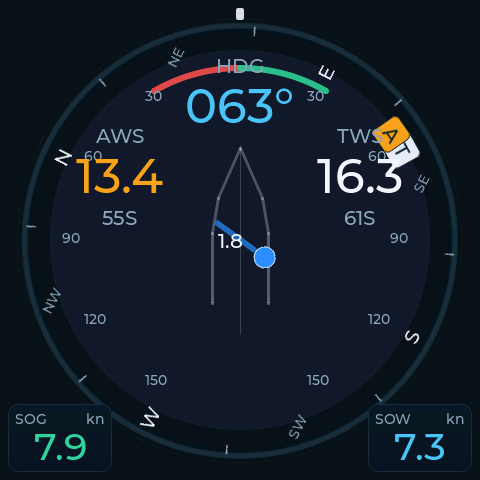
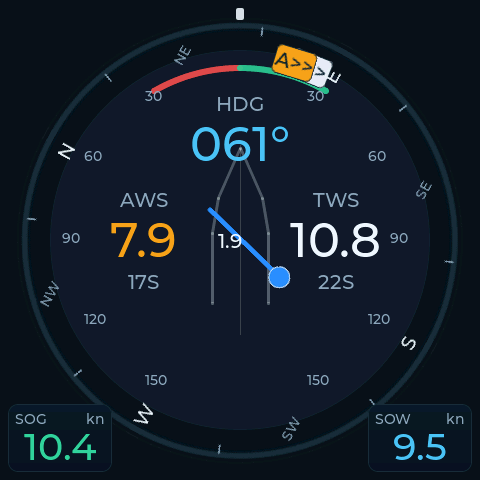
feat(ui): centered current vector + zero-ring, HDG clear of arc, A>>/T>> wind markers
Wind screen polish:
- Current/tide is now a centered vector (shaft symmetric about the dial centre,
  head points to set) instead of an offset arrow; a hollow ring is shown at the
  centre when the current is calm (~0 drift), the arrow when it flows.
- HDG readout moved down so it no longer overlaps the close-hauled arc.
- A/T wind markers carry a >> chevron (A>> apparent / T>> true) to read as
  inward direction indices; badge widened to fit.

Verified on device (docs/images/screen-wind.png).

diff --git a/src/ui/screen_wind.cpp b/src/ui/screen_wind.cpp
@@ -34,6 +34,7 @@ static lv_obj_t *bezel = nullptr;
 static lv_obj_t *awa_marker = nullptr;
 static lv_obj_t *twa_marker = nullptr;
 static lv_obj_t *tide_arrow = nullptr;
+static lv_obj_t *tide_zero = nullptr;  // circle shown when current ~ 0
 static lv_obj_t *waypoint_marker = nullptr;
 
 // Hero readouts
@@ -275,7 +276,7 @@ static void build_boat(lv_obj_t *parent) {
 
 static lv_obj_t *make_wind_marker(lv_obj_t *parent, const char *letter, uint32_t bg, uint32_t fg) {
     lv_obj_t *m = lv_obj_create(parent);
-    lv_obj_set_size(m, 28, 32);
+    lv_obj_set_size(m, 42, 30);
     lv_obj_set_style_bg_color(m, lv_color_hex(bg), 0);
     lv_obj_set_style_bg_opa(m, LV_OPA_COVER, 0);
     lv_obj_set_style_border_color(m, lv_color_hex(theme.panel_edge), 0);
@@ -284,7 +285,7 @@ static lv_obj_t *make_wind_marker(lv_obj_t *parent, const char *letter, uint32_t
     lv_obj_set_style_pad_all(m, 0, 0);
     lv_obj_clear_flag(m, LV_OBJ_FLAG_SCROLLABLE);
     lv_obj_clear_flag(m, LV_OBJ_FLAG_CLICKABLE);
-    apply_pivot_center(m, 14, R_MARKER);
+    apply_pivot_center(m, 21, R_MARKER);
 
     lv_obj_t *l = lv_label_create(m);
     lv_label_set_text(l, letter);
@@ -294,35 +295,40 @@ static lv_obj_t *make_wind_marker(lv_obj_t *parent, const char *letter, uint32_t
     return m;
 }
 
-// ---- tide arrow --------------------------------------------------------
-// A small triangle (head) + rectangle (tail) at dial center, rotating
-// around the center. Distinct cool-blue color, hidden when no current.
+// ---- tide / current vector ---------------------------------------------
+// A centered current vector: the SHAFT is symmetric about the dial centre
+// (its middle sits exactly on CX,CY) and the HEAD points in the current's set
+// direction; the whole thing rotates around the centre. When the current is
+// ~0 (calm), the arrow hides and a small ring is shown at the centre instead.
+static constexpr int TIDE_H = 132;           // box height
+static constexpr int TIDE_MID = TIDE_H / 2;  // pivot row == dial centre
 static void build_tide(lv_obj_t *parent) {
     tide_arrow = lv_obj_create(parent);
-    lv_obj_set_size(tide_arrow, 22, 80);
+    lv_obj_set_size(tide_arrow, 24, TIDE_H);
     lv_obj_set_style_bg_opa(tide_arrow, LV_OPA_TRANSP, 0);
     lv_obj_set_style_border_width(tide_arrow, 0, 0);
     lv_obj_set_style_pad_all(tide_arrow, 0, 0);
     lv_obj_clear_flag(tide_arrow, LV_OBJ_FLAG_SCROLLABLE);
     lv_obj_clear_flag(tide_arrow, LV_OBJ_FLAG_CLICKABLE);
-    apply_pivot_center(tide_arrow, 11, 40);
+    apply_pivot_center(tide_arrow, 12, TIDE_MID);
 
-    // Tail
-    lv_obj_t *tail = lv_obj_create(tide_arrow);
-    lv_obj_set_size(tail, 6, 50);
-    lv_obj_set_pos(tail, 8, 22);
-    lv_obj_set_style_bg_color(tail, lv_color_hex(0x288cff), 0);
-    lv_obj_set_style_bg_opa(tail, LV_OPA_70, 0);
-    lv_obj_set_style_border_width(tail, 0, 0);
-    lv_obj_set_style_radius(tail, 2, 0);
-    lv_obj_set_style_pad_all(tail, 0, 0);
-    lv_obj_clear_flag(tail, LV_OBJ_FLAG_SCROLLABLE);
-    lv_obj_clear_flag(tail, LV_OBJ_FLAG_CLICKABLE);
+    // Shaft: symmetric about the box centre (TIDE_MID), so its middle is at
+    // the dial centre. Extends ~46 px each way.
+    lv_obj_t *shaft = lv_obj_create(tide_arrow);
+    lv_obj_set_size(shaft, 5, 92);
+    lv_obj_set_pos(shaft, 9, TIDE_MID - 46);
+    lv_obj_set_style_bg_color(shaft, lv_color_hex(0x288cff), 0);
+    lv_obj_set_style_bg_opa(shaft, LV_OPA_COVER, 0);
+    lv_obj_set_style_border_width(shaft, 0, 0);
+    lv_obj_set_style_radius(shaft, 2, 0);
+    lv_obj_set_style_pad_all(shaft, 0, 0);
+    lv_obj_clear_flag(shaft, LV_OBJ_FLAG_SCROLLABLE);
+    lv_obj_clear_flag(shaft, LV_OBJ_FLAG_CLICKABLE);
 
-    // Head (filled diamond, approximated with a wider rounded rect)
+    // Head (diamond) at the set-direction (top) end.
     lv_obj_t *head = lv_obj_create(tide_arrow);
     lv_obj_set_size(head, 22, 22);
-    lv_obj_set_pos(head, 0, 0);
+    lv_obj_set_pos(head, 1, 2);
     lv_obj_set_style_bg_color(head, lv_color_hex(0x288cff), 0);
     lv_obj_set_style_bg_opa(head, LV_OPA_COVER, 0);
     lv_obj_set_style_border_color(head, lv_color_hex(theme.fg), 0);
@@ -331,8 +337,20 @@ static void build_tide(lv_obj_t *parent) {
     lv_obj_set_style_pad_all(head, 0, 0);
     lv_obj_clear_flag(head, LV_OBJ_FLAG_SCROLLABLE);
     lv_obj_clear_flag(head, LV_OBJ_FLAG_CLICKABLE);
-
     lv_obj_add_flag(tide_arrow, LV_OBJ_FLAG_HIDDEN);
+
+    // Zero-current ring (shown when drift ~ 0): a hollow circle at the centre.
+    tide_zero = lv_obj_create(parent);
+    lv_obj_set_size(tide_zero, 26, 26);
+    apply_pivot_center(tide_zero, 13, 13);  // centred on the dial
+    lv_obj_set_style_bg_opa(tide_zero, LV_OPA_TRANSP, 0);
+    lv_obj_set_style_border_color(tide_zero, lv_color_hex(0x288cff), 0);
+    lv_obj_set_style_border_width(tide_zero, 3, 0);
+    lv_obj_set_style_radius(tide_zero, LV_RADIUS_CIRCLE, 0);
+    lv_obj_set_style_pad_all(tide_zero, 0, 0);
+    lv_obj_clear_flag(tide_zero, LV_OBJ_FLAG_SCROLLABLE);
+    lv_obj_clear_flag(tide_zero, LV_OBJ_FLAG_CLICKABLE);
+    lv_obj_add_flag(tide_zero, LV_OBJ_FLAG_HIDDEN);
 }
 
 // ---- waypoint pip (small yellow marker at rim) -------------------------
@@ -470,8 +488,10 @@ lv_obj_t *build(lv_obj_t *parent) {
 
     // Wind markers (T white, A amber). T below A in z-order so amber wins
     // when they overlap (apparent is the one you steer to).
-    twa_marker = make_wind_marker(s_root, "T", 0xe3ebf2, 0x13253a);
-    awa_marker = make_wind_marker(s_root, "A", 0xf6a21a, 0x13253a);
+    // A/T markers carry a chevron (>>) so the apparent (amber) and true
+    // (white) wind indices read as inward-pointing direction arrows.
+    twa_marker = make_wind_marker(s_root, "T>>", 0xe3ebf2, 0x13253a);
+    awa_marker = make_wind_marker(s_root, "A>>", 0xf6a21a, 0x13253a);
 
     build_bezel(s_root);
     build_waypoint(s_root);
@@ -489,7 +509,7 @@ lv_obj_t *build(lv_obj_t *parent) {
                   &lbl_awa_value);
     inner_readout(s_root, "TWS", dxr, 0, &lv_font_montserrat_48, theme.fg, &lbl_tws_value,
                   &lbl_twa_value);
-    inner_readout(s_root, "HDG", 0, -134, &lv_font_montserrat_48, theme.accent, &lbl_hdg_value,
+    inner_readout(s_root, "HDG", 0, -96, &lv_font_montserrat_48, theme.accent, &lbl_hdg_value,
                   nullptr);
 
     // SOG / SOW in the bottom screen corners (outside the ring).
@@ -545,6 +565,7 @@ static int16_t s_last_wp_rot = INT16_MIN;
 static int8_t s_last_awa_hidden = -1;  // -1 = unset, 0 = shown, 1 = hidden
 static int8_t s_last_twa_hidden = -1;
 static int8_t s_last_tide_hidden = -1;
+static int8_t s_last_tide_zero_hidden = -1;
 static int8_t s_last_wp_hidden = -1;
 
 // Helpers moved to include/ui_dirty.h - shared across all screens.
@@ -630,20 +651,26 @@ void refresh() {
         set_text_if_changed(lbl_stw_value, s_last_stw, sizeof(s_last_stw), "--");
     }
 
-    // --- tide arrow ---
-    bool show_tide = !isnan(d.currentSetTrue) && !isnan(d.currentDrift) && d.currentDrift > 0.05 &&
-                     !isnan(hdg_deg);
-    if (show_tide) {
+    // --- tide / current vector ---
+    // Have current data + heading? Flowing current (>0.05 m/s) shows the
+    // centred arrow pointing to set; a calm/zero current shows the ring.
+    bool have_current = !isnan(d.currentSetTrue) && !isnan(d.currentDrift) && !isnan(hdg_deg);
+    bool flowing = have_current && d.currentDrift > 0.05;
+    if (flowing) {
         double tide_rel = rad_to_deg_pos(d.currentSetTrue) - hdg_deg;
         while (tide_rel < 0)
             tide_rel += 360;
         set_rot_if_changed(tide_arrow, &s_last_tide_rot, deg_to_lvgl(tide_rel));
         set_hidden_if_changed(tide_arrow, &s_last_tide_hidden, false);
+        set_hidden_if_changed(tide_zero, &s_last_tide_zero_hidden, true);
         snprintf(buf, sizeof(buf), "%.1f", mps_to_kn(d.currentDrift));
         set_text_if_changed(lbl_tide_speed, s_last_tide, sizeof(s_last_tide), buf);
     } else {
         set_hidden_if_changed(tide_arrow, &s_last_tide_hidden, true);
-        set_text_if_changed(lbl_tide_speed, s_last_tide, sizeof(s_last_tide), "");
+        // Calm current (have data, ~0 drift) -> ring; no data -> hide both.
+        set_hidden_if_changed(tide_zero, &s_last_tide_zero_hidden, !have_current);
+        set_text_if_changed(lbl_tide_speed, s_last_tide, sizeof(s_last_tide),
+                            have_current ? "0.0" : "");
     }
 
     // --- waypoint pip ---